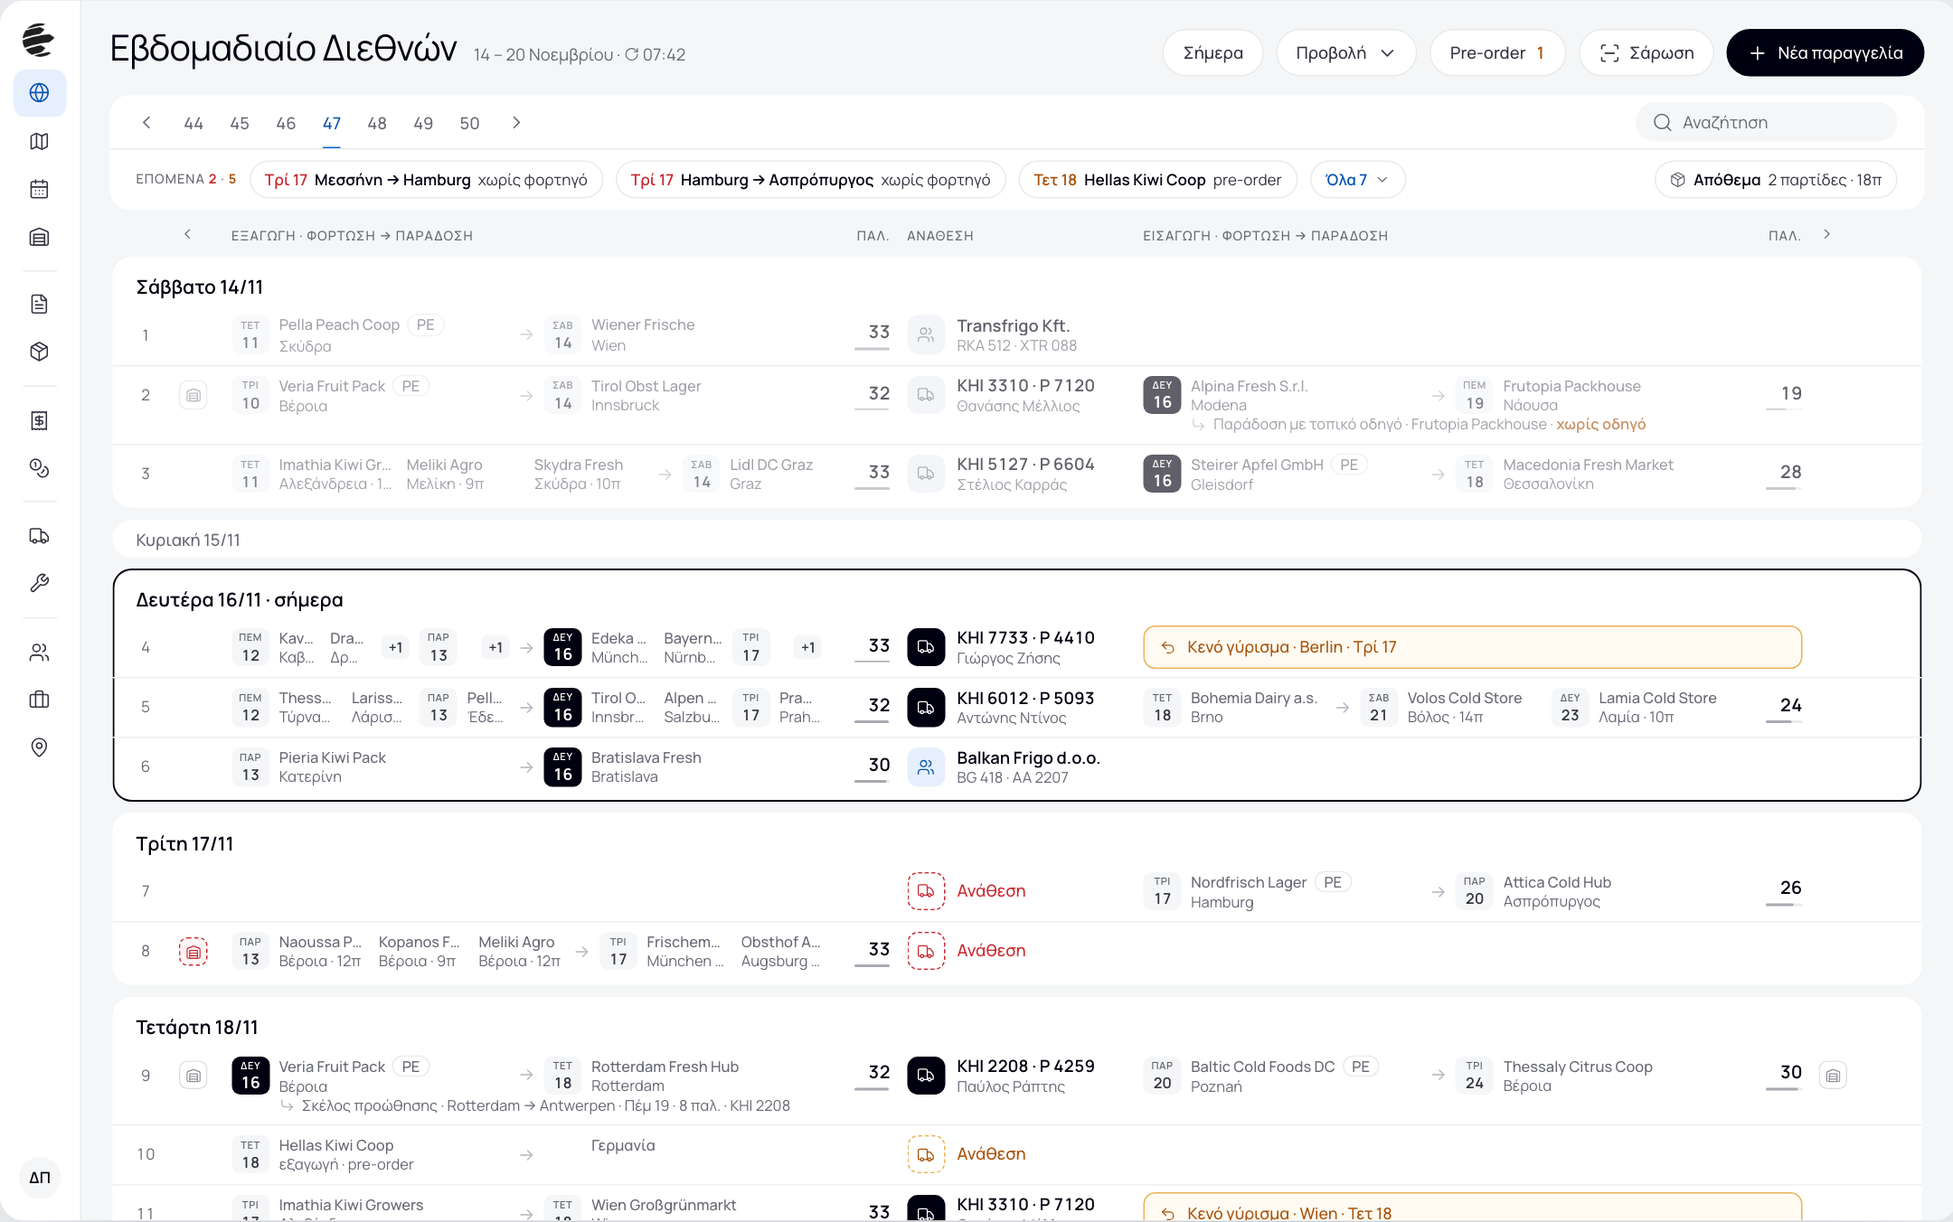
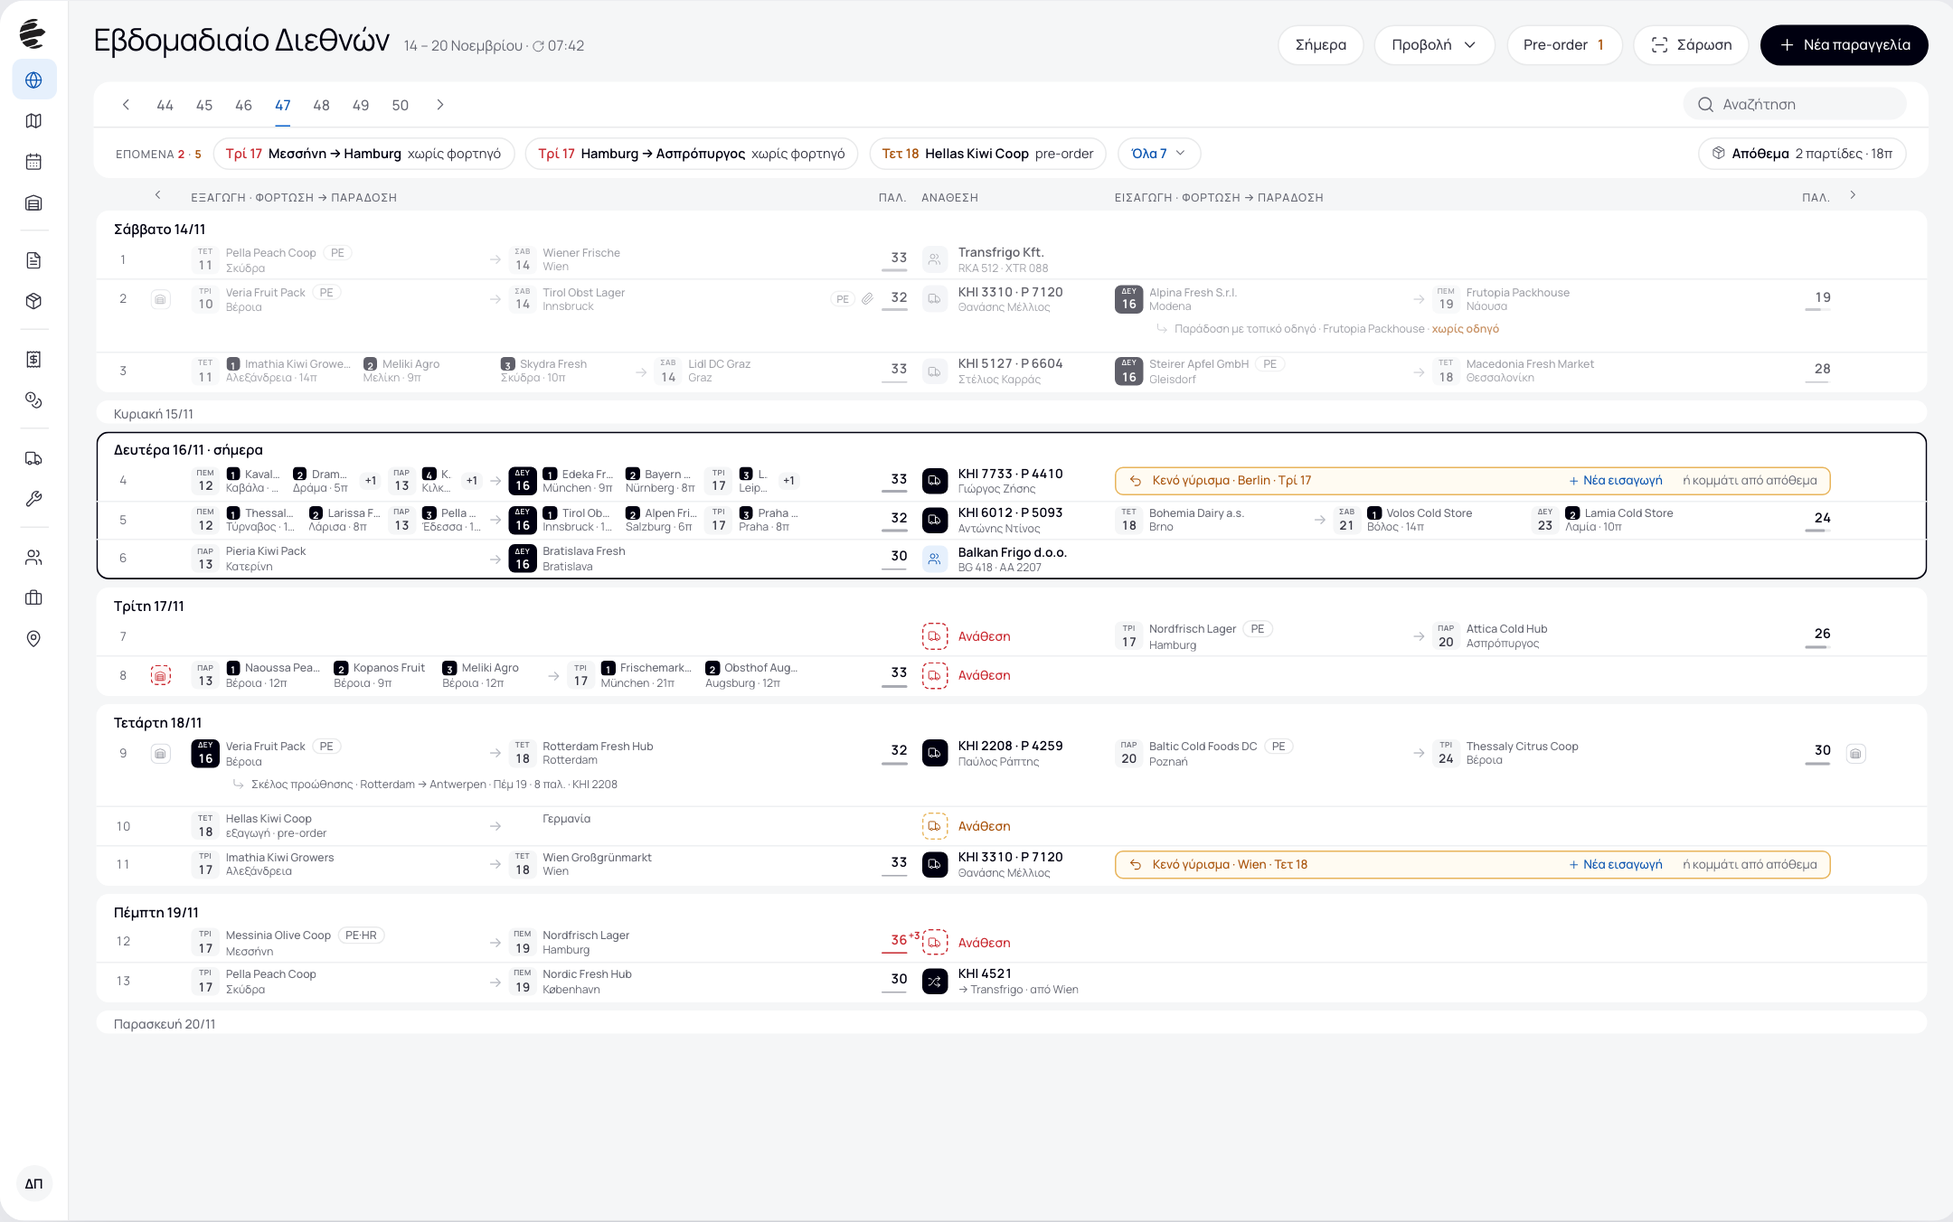
docs(redesign): Weekly International at today's density (1920 wide, rows ~38px, text ~12px) with what was missing from today's board — paperclip for order documents, pallet-exchange tag, done tick, point numbers, reference, new-import links, the three row texts (owner 15/11)

diff --git a/docs/design/redesign-2026-11/index.html b/docs/design/redesign-2026-11/index.html
@@ -490,7 +490,7 @@ table.spec td b{color:var(--ink);font-weight:600}
 .pn{position:relative}.pn sup{position:absolute;left:100%;top:-3px;margin-left:1px}
 .vpop h5{margin-top:0}
 .lc .asb{background:none;padding:0}.lc .asb.need{padding:4px 12px}
-#f5>.app{zoom:.88;inset:0 auto auto 0;width:1636px;height:1023px}
+#f5>.app{zoom:.75;inset:0 auto auto 0;width:1920px;height:1200px}
 /* Weekly International, structure B (owner's choice 15/11): each side is one route (leaf per day, its points beside it, arrow, deliveries). Assignment as on yesterday's national board (icon tile + text). Today is ink, not blue. */
 .lf.s:not(.t) b{font-size:12.5px;font-weight:600;color:var(--body)}
 .w9h,.w9row{display:grid;gap:0 14px;align-items:center;padding:0 20px 0 14px}.w9h{height:34px;margin-top:6px}
@@ -512,6 +512,17 @@ table.spec td b{color:var(--ink);font-weight:600}
 .w9pal.o b,.w9pal.o sup{color:var(--red)}.w9pal.o .m i{background:var(--red)}.w9pal sup{position:absolute;left:100%;top:-2px;font-size:10px;font-weight:700;margin-left:1px}
 .w9l2{font-size:12.5px;line-height:16px;color:var(--help);white-space:nowrap;overflow:hidden;text-overflow:ellipsis;padding-left:40px}.w9l2 b{font-weight:600;color:var(--body)}.w9l2 svg.lucide{width:13px;height:13px;vertical-align:-2px;margin-right:6px;color:#A9ABB3}
 .w9vh{display:inline-flex;align-items:center;gap:3px;cursor:pointer;color:inherit}.w9vh svg.lucide{width:14px;height:14px}.w9vm{width:24px;height:24px;border-radius:7px;display:grid;place-items:center;color:#8A8D96;box-shadow:inset 0 0 0 1px #DADDE3;cursor:pointer}.w9vm svg.lucide{width:13px;height:13px}.w9vm.r{box-shadow:none;outline:1.5px dashed var(--red);outline-offset:-1.5px;color:var(--red);background:#FEF6F6}
+/* same density as today's board (owner 15/11): 1920-wide screen, rows about 36px, text about 12px */
+#f5 .w9row{min-height:38px;font-size:12px}#f5 .w9h{height:28px;margin-top:4px}#f5 .w9row.sub{margin-top:-5px;padding-bottom:5px}
+#f5 .w9p b,#f5 .w9as b,#f5 .w9v b{font-size:12.5px;line-height:16px}#f5 .w9p span,#f5 .w9as .tx span,#f5 .w9v>span,#f5 .w9l2{font-size:11px;line-height:14px}
+#f5 .lf{width:28px;height:28px;border-radius:6px}#f5 .lf i{font-size:7.5px}#f5 .lf b,#f5 .lf.s:not(.t) b{font-size:12px;margin-top:2px}#f5 .lf.dn{background:#EAF6EF}#f5 .lf.dn b{color:var(--green)}
+#f5 .w9ic{width:26px;height:26px;border-radius:7px}#f5 .w9ic svg.lucide{width:13px;height:13px}#f5 .w9pal b{font-size:13px}#f5 .w9pal .m{width:26px}
+#f5 .w9gap{height:28px;border-radius:8px;font-size:12px}#f5 .w9gap a,.w9tx a{margin-left:auto;display:inline-flex;align-items:center;gap:4px;color:var(--link);font-weight:500;cursor:pointer}#f5 .w9gap a.alt{margin-left:10px;color:var(--help);font-weight:400}#f5 .w9gap a svg.lucide,.w9tx a svg.lucide{width:12px;height:12px}
+#f5 .day{margin-top:8px;padding:4px 0 2px;border-radius:12px}#f5 .day>h3{font-size:13.5px;padding:4px 18px 2px}#f5 .day.none{padding:0}#f5 .day.none>h3{font-size:12.5px}
+#f5 .w9no{font-size:12px}#f5 .w9d,#f5 .w9r{gap:6px}#f5 .w9ps{gap:10px}#f5 .w9m{font-size:11px;padding:1px 5px}#f5 .w9vm{width:20px;height:20px;border-radius:6px}#f5 .w9vm svg.lucide{width:11px;height:11px}
+.w9pc{display:flex;align-items:center;justify-content:flex-end;gap:6px;min-width:0}.w9pc .tag{margin:0;font-size:10px;line-height:14px;padding:0 5px}.w9clip{color:var(--help);display:grid;cursor:pointer}.w9clip svg.lucide{width:13px;height:13px}
+.w9n{font-style:normal;flex:none;width:14px;height:14px;border-radius:4px;background:var(--ink);color:#fff;font-size:9.5px;font-weight:700;display:grid;place-items:center;margin-right:5px}
+.w9tx{display:flex;align-items:center;gap:8px;color:var(--help);font-size:12px;min-width:0;white-space:nowrap}
 #f5 .day.today{box-shadow:inset 0 0 0 1.5px var(--primary)}#f5 .day.today>h3{color:var(--primary)}#f5 .lf.t{background:var(--primary)}
 #f5 .day.past .w9row>*:not(.w9no):not(.n){opacity:.62}#f5 .day.past .w9ic{background:#EEF0F4;color:#7C7E88}
 @media (prefers-reduced-motion:reduce){*,*::before,*::after{animation-duration:.01ms!important;animation-iteration-count:1!important;transition-duration:.01ms!important;transition-delay:0ms!important}
@@ -1065,30 +1076,32 @@ const lfMany=a=>a.length>1?`<div class="lns">${a.map(x=>lfLn(x[1],'',x[0],x[2],x
    Each side is one route: a leaf per day with that day's points beside it, an arrow, then the deliveries. At most three points are
    drawn per side; the rest show as +N and open on hover. */
 (function(){
- const TODAY='Δευ 16',P=(n,c,d,p,t)=>({n,c,d,p,t});
- const leaf=d=>{const [w,n]=d.split(' ');return `<span class="lf s ${d===TODAY?'t':''}"><i>${lfUp(w)}</i><b>${n}</b></span>`};
+ const TODAY=window.WK_TODAY||'Δευ 16',P=(n,c,d,p,t)=>({n,c,d,p,t});
+ const leaf=(d,done)=>{const [w,n]=d.split(' ');return `<span class="lf s ${d===TODAY?'t':''} ${done?'dn':''}" title="${done?'Ολοκληρώθηκε · ':''}κλικ: αλλαγή ημέρας"><i>${lfUp(w)}</i><b>${n}</b></span>`};
  const byDay=a=>{const g=[];a.forEach(x=>{const l=g[g.length-1];l&&l[0]===x.d?l[1].push(x):g.push([x.d,[x]])});return g};
  const pal=n=>n==null?'<span></span>':`<div class="w9pal ${n>33?'o':''}"><b class="num">${n}</b>${n>33?`<sup>+${n-33}</sup>`:''}<span class="m"><i style="--f:${Math.min(1,n/33)}"></i></span></div>`;
  const asg=([k,a,b])=>{const I={o:'truck',p:'users',x:'shuffle',n:'truck',am:'truck'}[k];
   return `<div class="w9as ${k==='o'||k==='x'?'':k}"><span class="w9ic">${ic(I)}</span><div class="tx"><b class="num">${k==='n'||k==='am'?'Ανάθεση':a}</b>${b?`<span>${b}</span>`:''}</div></div>`};
- const vcell=v=>{if(!v)return '<span></span>';const tr=[...new Set(v.map(x=>x.t).filter(Boolean))],miss=v.filter(x=>!x.t).length;
+ const vcell=(v,nat)=>{if(!v)return nat&&!OPEN?`<span class="w9vm" title="Εθνικό σκέλος">${ic('warehouse')}</span>`:'<span></span>';const tr=[...new Set(v.map(x=>x.t).filter(Boolean))],miss=v.filter(x=>!x.t).length;
   if(!OPEN)return `<span class="w9vm ${miss?'r':''}" title="${v.map(x=>x.n+' · '+(x.t||'χωρίς φορτηγό')).join(' | ')}">${ic('warehouse')}</span>`;
   return v.length===1?`<div class="w9v"><b><span class="el">${v[0].n}</span></b><span>${v[0].d} · ${v[0].t||'<em>χωρίς φορτηγό</em>'}</span></div>`
    :`<div class="w9v"><b><span class="el">${v.map(x=>x.n).join(' · ')}</span></b><span>+${v.length-1} · ${tr[0].split(' · ')[0]}${tr.length>1?` +${tr.length-1}`:''}${miss?` · <em>λείπει ${miss}</em>`:''}</span></div>`};
  const grp=a=>{const g=byDay(a);let cap=Math.max(3,g.length)-g.length;const sh=g.map(([d,p])=>{const k=Math.min(p.length-1,cap);cap-=k;return 1+k});
-  return g.map(([d,p],i)=>`<div class="w9d" style="flex:${sh[i]} 1 0">${d?leaf(d):'<span style="width:32px;flex:none"></span>'}<div class="w9ps">${p.slice(0,sh[i]).map(q=>`<div class="w9p"><b><span class="el">${q.n}</span>${tags(q.t||'')}</b><span>${q.c}${q.p?` · ${q.p}π`:''}</span></div>`).join('')}${p.length>sh[i]?`<span class="w9m">+${p.length-sh[i]}</span>`:''}</div></div>`).join('')};
- const side=x=>`<div class="w9r">${grp(x.L)}<i class="w9a">→</i>${grp(x.D)}</div>${pal(x.pal)}`,E2='<span></span><span></span>';
+  return g.map(([d,p],i)=>`<div class="w9d" style="flex:${sh[i]} 1 0">${d?leaf(d,p.every(q=>q.done)):'<span style="width:28px;flex:none"></span>'}<div class="w9ps">${p.slice(0,sh[i]).map(q=>`<div class="w9p"><b>${a.length>1?`<em class="w9n">${a.indexOf(q)+1}</em>`:''}<span class="el">${q.n}</span>${tags(q.t||'')}</b><span>${q.c}${q.p?` · ${q.p}π`:''}</span></div>`).join('')}${p.length>sh[i]?`<span class="w9m">+${p.length-sh[i]}</span>`:''}</div></div>`).join('')};
+ const palc=x=>`<div class="w9pc">${x.pe?'<span class="tag" title="Ανταλλαγή παλετών">PE</span>':''}${x.doc?`<span class="w9clip" title="Έγγραφα παραγγελίας">${ic('paperclip')}</span>`:''}${pal(x.pal)}</div>`;
+ const side=x=>`<div class="w9r">${grp(x.L)}<i class="w9a">→</i>${grp(x.D)}</div>${palc(x)}`,E2='<span></span><span></span>';
+ const txt=(t,l)=>`<div class="w9tx" style="grid-column:span 2">${t}${l?`<a>${ic('plus')}${l}</a>`:''}</div>`;
  /* the two Veroia columns are side panels: closed by default (owner 15/11), a small mark stays on the rows that go through Veroia */
  let OPEN=false,G='';
- const grid=()=>{const v=OPEN?'176px':'30px';G=`28px ${v} minmax(0,1fr) 44px 184px minmax(0,1fr) 44px ${v} 22px`};
+ const grid=()=>{const v=OPEN?'176px':'26px';G=`26px ${v} minmax(0,1fr) 92px 176px minmax(0,1fr) 92px ${v} 20px`};
  const sub=(l,r)=>`<div class="w9row sub" style="grid-template-columns:${G}"><span></span><span></span><div class="w9l2">${l||''}</div><span></span><span></span><div class="w9l2">${r||''}</div><span></span><span></span><span></span></div>`;
- const row=r=>`<div class="w9row" style="grid-template-columns:${G}"><span class="w9no num">${r.no}</span>${vcell(r.vTo)}${r.ex?side(r.ex):E2}${asg(r.as)}${r.im?side(r.im):r.gap?`<div class="w9gap" style="grid-column:span 2">${ic('undo-2')}Κενό γύρισμα · ${r.gap}</div>`:E2}${vcell(r.vFrom)}<span></span></div>`
+ const row=r=>`<div class="w9row" style="grid-template-columns:${G}"><span class="w9no num">${r.no}</span>${vcell(r.vTo,r.nat&&r.ex)}${r.ex?side(r.ex):r.exTxt?txt(r.exTxt):E2}${asg(r.as)}${r.im?side(r.im):r.gap?`<div class="w9gap" style="grid-column:span 2">${ic('undo-2')}Κενό γύρισμα · ${r.gap}<a>${ic('plus')}Νέα εισαγωγή</a><a class="alt">ή κομμάτι από απόθεμα</a></div>`:r.imTxt?txt(r.imTxt,r.imAdd):E2}${vcell(r.vFrom,r.nat&&!r.ex)}<span></span></div>`
   +(r.note?sub(r.note[0]&&ic('corner-down-right')+r.note[0],r.note[1]&&ic('corner-down-right')+r.note[1]):'');
  const NV={n:'Naoussa Peach Union',c:'Νάουσα'};
  const WK=[
   ['Σάββατο 14/11','past',[
    {ex:{L:[P('Pella Peach Coop','Σκύδρα','Τετ 11',0,'PE')],D:[P('Wiener Frische','Wien','Σάβ 14')],pal:33},as:['p','Transfrigo Kft.','RKA 512 · XTR 088']},
-   {vTo:[{...NV,d:'Δευ 9',t:'ΚΗΙ 2140 · Ρήγας'}],ex:{L:[P('Veria Fruit Pack','Βέροια','Τρί 10',0,'PE')],D:[P('Tirol Obst Lager','Innsbruck','Σάβ 14')],pal:32},as:['o','ΚΗΙ 3310 · Ρ 7120','Θανάσης Μέλλιος'],
+   {vTo:[{...NV,d:'Δευ 9',t:'ΚΗΙ 2140 · Ρήγας'}],ex:{L:[P('Veria Fruit Pack','Βέροια','Τρί 10',0,'PE')],D:[P('Tirol Obst Lager','Innsbruck','Σάβ 14')],pal:32,pe:1,doc:1},as:['o','ΚΗΙ 3310 · Ρ 7120','Θανάσης Μέλλιος'],
     im:{L:[P('Alpina Fresh S.r.l.','Modena','Δευ 16')],D:[P('Frutopia Packhouse','Νάουσα','Πέμ 19')],pal:19},note:['','Παράδοση με τοπικό οδηγό · Frutopia Packhouse · <i>χωρίς οδηγό</i>']},
    {ex:{L:[P('Imathia Kiwi Growers','Αλεξάνδρεια','Τετ 11',14),P('Meliki Agro','Μελίκη','Τετ 11',9),P('Skydra Fresh','Σκύδρα','Τετ 11',10)],D:[P('Lidl DC Graz','Graz','Σάβ 14')],pal:33},as:['o','ΚΗΙ 5127 · Ρ 6604','Στέλιος Καρράς'],
     im:{L:[P('Steirer Apfel GmbH','Gleisdorf','Δευ 16',0,'PE')],D:[P('Macedonia Fresh Market','Θεσσαλονίκη','Τετ 18')],pal:28}}]],
@@ -1115,7 +1128,7 @@ const lfMany=a=>a.length>1?`<div class="lns">${a.map(x=>lfLn(x[1],'',x[0],x[2],x
  const head=()=>`<div class="w9h lbl" style="grid-template-columns:${G}">${['',OPEN?`<a class="w9vh" title="Κλείσιμο">${ic('chevron-right')}Προς Βέροια</a>`:`<a class="w9vh" title="Προς Βέροια">${ic('chevron-left')}</a>`,'Εξαγωγή · φόρτωση → παράδοση','Παλ.','Ανάθεση','Εισαγωγή · φόρτωση → παράδοση','Παλ.',OPEN?`<a class="w9vh" title="Κλείσιμο">Από Βέροια${ic('chevron-left')}</a>`:`<a class="w9vh" title="Από Βέροια">${ic('chevron-right')}</a>`,''].map(c=>`<span ${c==='Παλ.'?'style="text-align:right"':''}>${c}</span>`).join('')}</div>`;
  const bh=$('f5').querySelector('.bh'),old=bh.nextElementSibling,box=document.createElement('div');
  box.style.cssText='flex:1;min-height:0;overflow:hidden;padding:0 2px';
- const draw=()=>{let no=0;grid();box.innerHTML=head()+`<div style="margin-top:-10px">${WK.map(([t,c,rows])=>`<section class="day ${c}"><h3>${t}</h3>${rows.map(r=>row({...r,no:++no})).join('')}</section>`).join('')}</div>`;if(window.lucide)lucide.createIcons()};
+ const draw=()=>{let no=0;grid();box.innerHTML=head()+`<div style="margin-top:-8px">${(window.WK_REAL||WK).map(([t,c,rows])=>`<section class="day ${c}"><h3>${t}</h3>${rows.map(r=>row({...r,no:++no})).join('')}</section>`).join('')}</div>`;if(window.lucide)lucide.createIcons()};
  box.addEventListener('click',e=>{if(e.target.closest('.w9vh')){OPEN=!OPEN;draw()}});draw();
  old.remove();bh.replaceWith(box);
 })();

diff --git a/docs/design/redesign-2026-11/parity/README.md b/docs/design/redesign-2026-11/parity/README.md
@@ -186,3 +186,5 @@
 **Οι δύο στήλες Βέροιας είναι πλαϊνά πάνελ, κλειστά από προεπιλογή (owner 15/11, βράδυ).** Κλειστά: ένα μικρό σημάδι στη γραμμή που περνά από Βέροια, κόκκινο διακεκομμένο όταν λείπει φορτηγό· τα ονόματα παίρνουν τον χώρο τους. Ανοίγουν από το βελάκι της κεφαλίδας (`shots/06-weekly-intl.png` κλειστό, `shots/06-weekly-intl-veroia-open.png` ανοιχτό). Το χρώμα μένει ανοιχτό: δοκιμάστηκαν πετρόλ, βαθύ πράσινο, δαμασκηνί, τα μπλε της σημερινής εφαρμογής και το λουλακί του FreightSuite, χωρίς επιλογή ακόμη.
 
 **Διόρθωση (15/11, βράδυ): ο owner είχε διαλέξει τη «Διαδρομή», όχι τη «Δεύτερη σειρά».** Στο μήνυμα με τις τρεις δομές οι εικόνες στάλθηκαν με άλλη σειρά από τα γράμματά τους, και το «Β» του εννοούσε τη δεύτερη εικόνα (`shots/08-wi-concept-a.png`). Η κύρια οθόνη (#f5) ξαναχτίστηκε ως «Διαδρομή»: κάθε πλευρά μία διαδρομή, ένα φύλλο ανά ημέρα με τα σημεία της δίπλα του, βελάκι προς την παράδοση, έως τρία σημεία ανά πλευρά και τα υπόλοιπα ως «+N». Ισχύουν όσα είπε μετά: «σήμερα» χωρίς μπλε, ανάθεση του χθεσινού Εθνικών, πάνελ Βέροιας κλειστά από προεπιλογή. Ό,τι γράφει παραπάνω «δομή Β» ως επιλογή του είναι λάθος δικό μου.
+
+**Διαστάσεις και βασικά του σημερινού (owner 15/11, βράδυ).** Μετρήθηκε το σημερινό Εβδομαδιαίο στη ζωντανή εφαρμογή (μόνο ανάγνωση): οθόνη πλάτους 1920, γραμμή 36px, κείμενο 12px. Το σχέδιο ήρθε στις ίδιες διαστάσεις (γραμμή 38px, ονόματα 12,5px, δεύτερη σειρά 11px), ώστε μια εβδομάδα 19 φορτίων να χωρά σε μία οθόνη. Προστέθηκαν όσα βασικά του σημερινού έλειπαν: **συνδετήρας** (έγγραφα παραγγελίας) και σήμα ανταλλαγής παλετών δίπλα στις παλέτες, **τικ** στο φύλλο όταν η φόρτωση ολοκληρώθηκε, **αρίθμηση σημείων** 1·2·3, αριθμός αναφοράς δίπλα στον τόπο φόρτωσης, «Νέα εισαγωγή · ή κομμάτι από απόθεμα» μέσα στο κενό γύρισμα, «Μόνο εξαγωγή · συνεργάτης», «Χωρίς εξαγωγή · αυτή την εβδομάδα», «Χωρίς εισαγωγή · Νέα εισαγωγή». Η προσομοίωση με τα πραγματικά φορτία της εβδομάδας έγινε **μόνο τοπικά** και δόθηκε στον owner ως εικόνα· δεν μπαίνει στο repo (δημόσιο). Δεν έχουν σχεδιαστεί ακόμη: η λωρίδα «Απόθεμα» με τις παρτίδες, τα κουμπιά ενέργειας μέσα στα «Επόμενα», η αντιγραφή πινακίδων και η εκτύπωση εντολής στο πέρασμα του ποντικιού.
